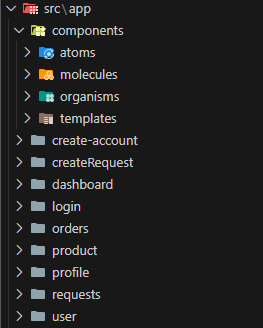
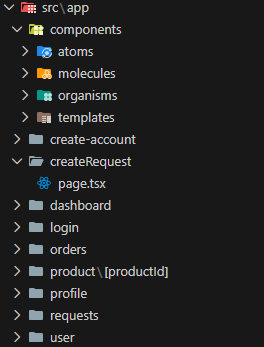
added code samples for it-project

Changed region(s): [[0.0, 0.0, 0.6388, 1.0]]

diff --git a/src/data/projects.js b/src/data/projects.js
@@ -77,7 +77,7 @@ export default [
 
             <!-- Paragraphs that should wrap around the image -->
             <p class="text-white/85 leading-relaxed">
-              Er werd gekozen voor een <strong>Next.js</strong> frontend met <strong>Tailwind CSS</strong> voor snelle ontwikkeling en een moderne look. In de frontend volgde we het <strong>Atomic Design Principle</strong> om herbruikbare componenten te maken.
+              Er werd gekozen voor een <strong>Next.js + TypeScript</strong> frontend met <strong>Tailwind CSS</strong> voor snelle ontwikkeling en een moderne look. In de frontend volgde we het <strong>Atomic Design Principle</strong> om herbruikbare componenten te maken.
               De backend werd gebouwd met <strong>Java Spring Boot</strong>, gebruikmakend van <strong>REST API's</strong> en <strong>JWT</strong> voor veilige authenticatie.
               <strong>PostgreSQL</strong> diende als database voor het opslaan van alle gegevens. Voor bestanden en documenten werd <strong>AWS S3</strong> gebruikt.
             </p>
@@ -108,6 +108,124 @@ export default [
             </p>
           </div>
         </div>
+        <div class="h-px w-full bg-white/10 mb-10"></div>
+
+        <h2 class="text-2xl md:text-3xl font-bold tracking-tight">Codevoorbeelden: frontend</h2>
+
+        <h3 class="text-xl font-semibold tracking-tight mb-4">Mappenstructuur</h3>
+
+        <!-- Screenshot + tekst naast elkaar -->
+        <div class="flex flex-col lg:flex-row items-start gap-8">
+
+          <!-- Screenshot -->
+          <figure class="relative rounded-2xl overflow-hidden border border-white/10 w-full  lg:max-w-xl shrink-0">
+            <img src="/projects/blues5.png" alt="Mappenstructuur" class="w-full object-contain" />
+          </figure>
+
+          <!-- Tekst -->
+          <div class="text-white/85 leading-relaxed max-w-3xl">
+
+            <p>
+              De frontend van dit project is ontwikkeld met <strong>Next.js</strong> en <strong>TypeScript</strong>.
+              Voor de vormgeving werd gebruikgemaakt van <strong>Tailwind CSS</strong>, wat zorgt voor een snelle en consistente manier van stylen.
+              De afbeelding toont de mappenstructuur van de applicatie.
+            </p>
+
+            <br/>
+
+            <p>
+              Voor de opbouw van de componenten werd gewerkt volgens het 
+              <strong>Atomic Design Principle</strong>. Dit betekent dat de interface stap voor stap wordt opgebouwd vanuit kleine, herbruikbare bouwstenen naar volledige pagina's:
+            </p>
+
+            <ul class="list-disc ml-6 mt-3 space-y-2">
+              <li><strong>Atoms:</strong> de kleinste elementen, zoals knoppen, labels, icons en invoervelden.</li>
+              <li><strong>Molecules:</strong> combinaties van atoms die samen een functioneel blok vormen, zoals een productinfo-box.</li>
+              <li><strong>Organisms:</strong> grotere componenten die bestaan uit meerdere molecules en atoms, zoals complete productkaarten.</li>
+              <li><strong>Templates:</strong> de opmaakstructuur van volledige pagina's waarin organisms worden samengevoegd.</li>
+              <li><strong>Pages:</strong> de uiteindelijke routes in Next.js, die content tonen op basis van data en templates.</li>
+            </ul>
+
+            <br/>
+
+            <p>
+              Voor het routeren werd gebruikgemaakt van de nieuwe <strong>App Router</strong> van Next.js. 
+              Elke map binnen de <code>/app</code>-directory die een <code>page.tsx</code>-bestand bevat, wordt automatisch een route.
+              Zo wordt bijvoorbeeld <code>/app/createRequest</code> omgezet naar de <code>/createRequest</code>-route.
+              Elke <code>page.tsx</code> bevat de content en logica voor de desbetreffende route en maakt gebruik van de juiste template.
+            </p>
+
+          </div>
+        </div>
+
+        
+        
+
+        <br/>
+        <h3 class="text-xl font-semibold tracking-tight">Atoms</h3>
+        <p class="text-white/85 leading-relaxed m-0">
+          Beginnend bij de kleinste bouwstenen, de <strong>atoms</strong>. Deze componenten zijn de fundamentele elementen van de gebruikersinterface, zoals knoppen, invoervelden, labels, etc.
+          In dit voorbeeld ziet u een eenvoudige <code>RedirectButton</code> die als doel heeft om gebruikers naar een andere pagina te leiden wanneer erop wordt geklikt. 
+          De button accepteert props zoals <code>to</code> (om de doel-URL te specificeren), <code>children</code> (de inhoud van de button) en <code>className</code> (voor nog extra styling).
+        </p>
+        <figure class="relative rounded-2xl overflow-hidden border border-white/10 max-w-5xl mx-auto">
+          <img src="/projects/blues11.png" alt="Atom code" class="w-full object-cover" />
+        </figure>
+        
+
+        <br/>
+        <h3 class="text-xl font-semibold tracking-tight">Molecules</h3>
+        <p class="text-white/85 leading-relaxed">
+          Vervolgens hebben we de <strong>molecules</strong>, die bestaan uit combinaties van atoms om iets complexere functionaliteiten te bieden.
+          In dit voorbeeld ziet u een <code>ProductInfo</code> molecule die gebruikmaakt van verschillende atoms zoals <code>RedirectButton</code>, <code>ProductImage</code> en <code>Text</code>.
+        </p>
+
+        <figure class="relative rounded-2xl overflow-hidden border border-white/10 max-w-5xl mx-auto">
+          <img src="/projects/blues10.png" alt="Molecule code" class="w-full object-cover" />
+        </figure>
+
+        <br/>
+        <h3 class="text-xl font-semibold tracking-tight">Organisms</h3>
+
+        <p class="text-white/85 leading-relaxed">
+          Daarna hebben we de <strong>organisms</strong>, die bestaan uit combinaties van molecules en atoms om volledige secties van een pagina te vormen.
+          In dit voorbeeld ziet u een <code>ProductCard</code> organism die gebruikmaakt van de molecule <code>ProductInfo</code>.
+
+        <figure class="relative rounded-2xl overflow-hidden border border-white/10 max-w-5xl mx-auto">
+          <img src="/projects/blues9.png" alt="Organism code" class="w-full object-cover" />
+        </figure>
+        
+        <br/>
+        <h3 class="text-xl font-semibold tracking-tight">Templates</h3>
+        <p class="text-white/85 leading-relaxed">
+          Ten slotte hebben we de <strong>Templates</strong>, die volledige pagina's vormen door organisms te combineren.
+          In dit voorbeeld ziet u een <code>ProductTemplate</code> die gebruikmaakt van de organism <code>ProductCard</code>. 
+          Ook wordt er hier een hook <code>useProduct</code> gebruikt om productgegevens op te halen van de backend API.
+          Deze hook gebruikt de productId om de juiste gegevens op te halen, deze productId
+          Deze productgegevens worden vervolgens doorgegeven aan de <code>ProductCard</code> om de juiste informatie weer te geven.
+
+        </p>
+
+        <figure class="relative rounded-2xl overflow-hidden border border-white/10 max-w-5xl mx-auto">
+          <img src="/projects/blues8.png" alt="Template code" class="w-full object-cover" />
+        </figure>
+
+        <br/>
+        <h3 class="text-xl font-semibold tracking-tight">Page</h3>
+        <p class="text-white/85 leading-relaxed">
+          Zoals eerder vermeld, definieert de <code>page.tsx</code> file de inhoud en logica voor een specifieke route.
+          In dit voorbeeld ziet u de <code>page.tsx</code> voor de productpagina. In de page.tsx wordt de <code>ProductTemplate</code> gebruikt om de volledige pagina weer te geven.
+          De page.tsx haalt ook nog het productId op uit de URL-parameters en geeft deze door aan de template (die dan via de hook <code>useProduct</code> het juiste product ophaalt).
+        </p>
+
+        <figure class="relative rounded-2xl overflow-hidden border border-white/10 max-w-3xl mx-auto">
+          <img src="/projects/blues6.png" alt="page.tsx in map" class="w-full object-cover" />
+        </figure>
+        <figure class="relative rounded-2xl overflow-hidden border border-white/10 max-w-3xl mx-auto">
+          <img src="/projects/blues7.png" alt="page.tsx in code" class="w-full object-cover" />
+        </figure>
+        
+
 
         <!-- Divider -->
         <div class="h-px w-full bg-white/10"></div>
